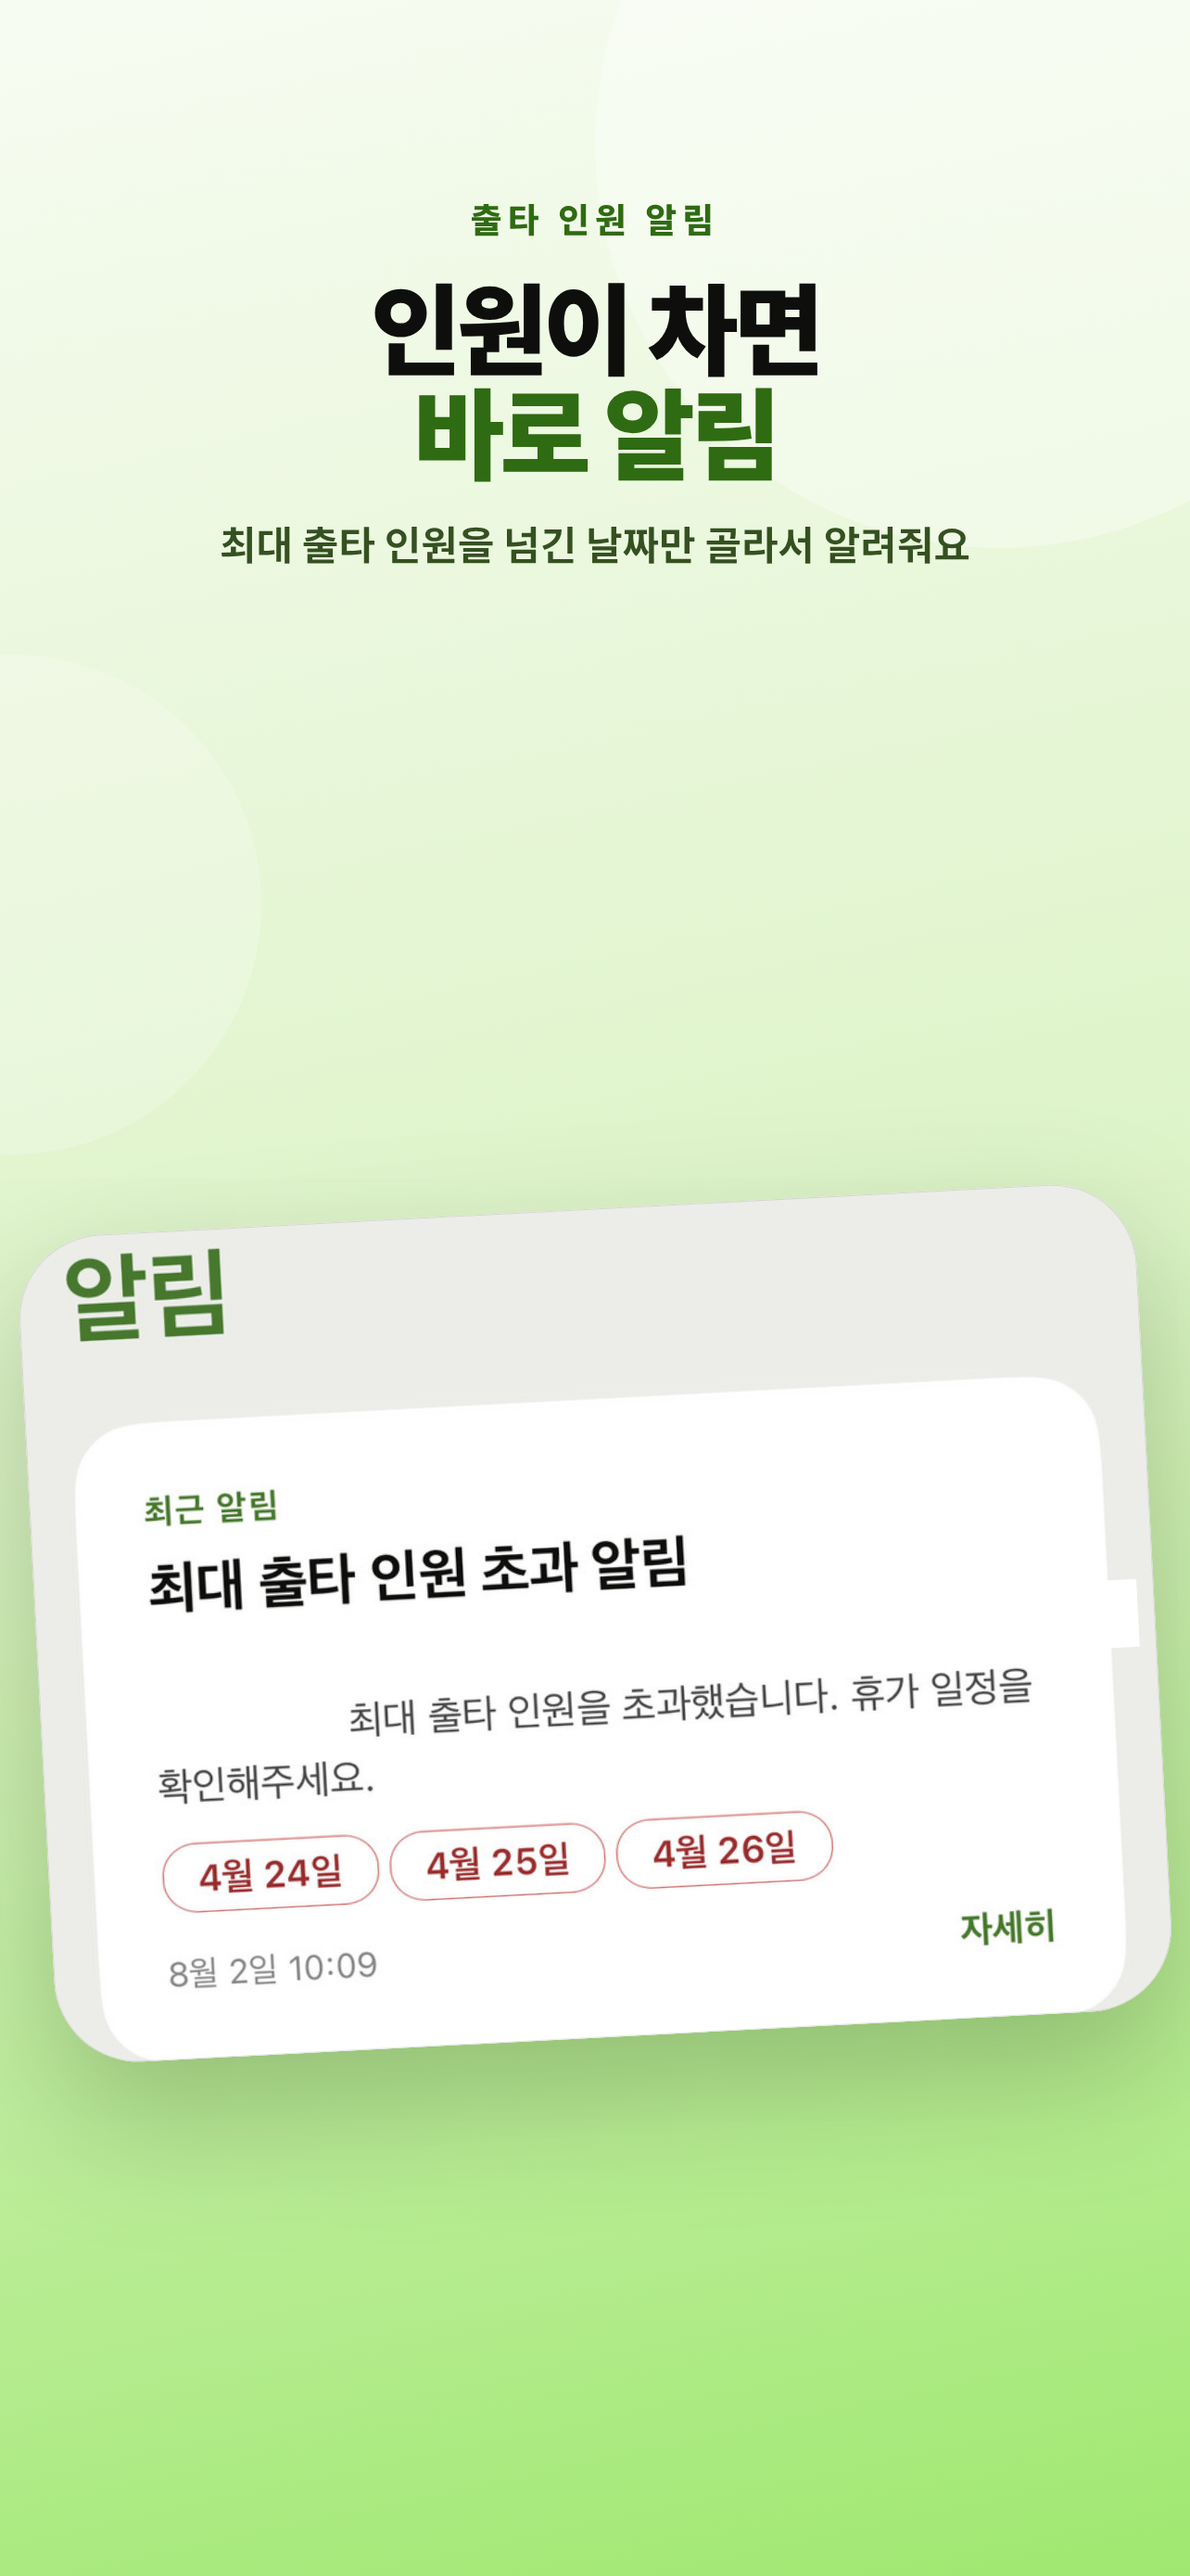
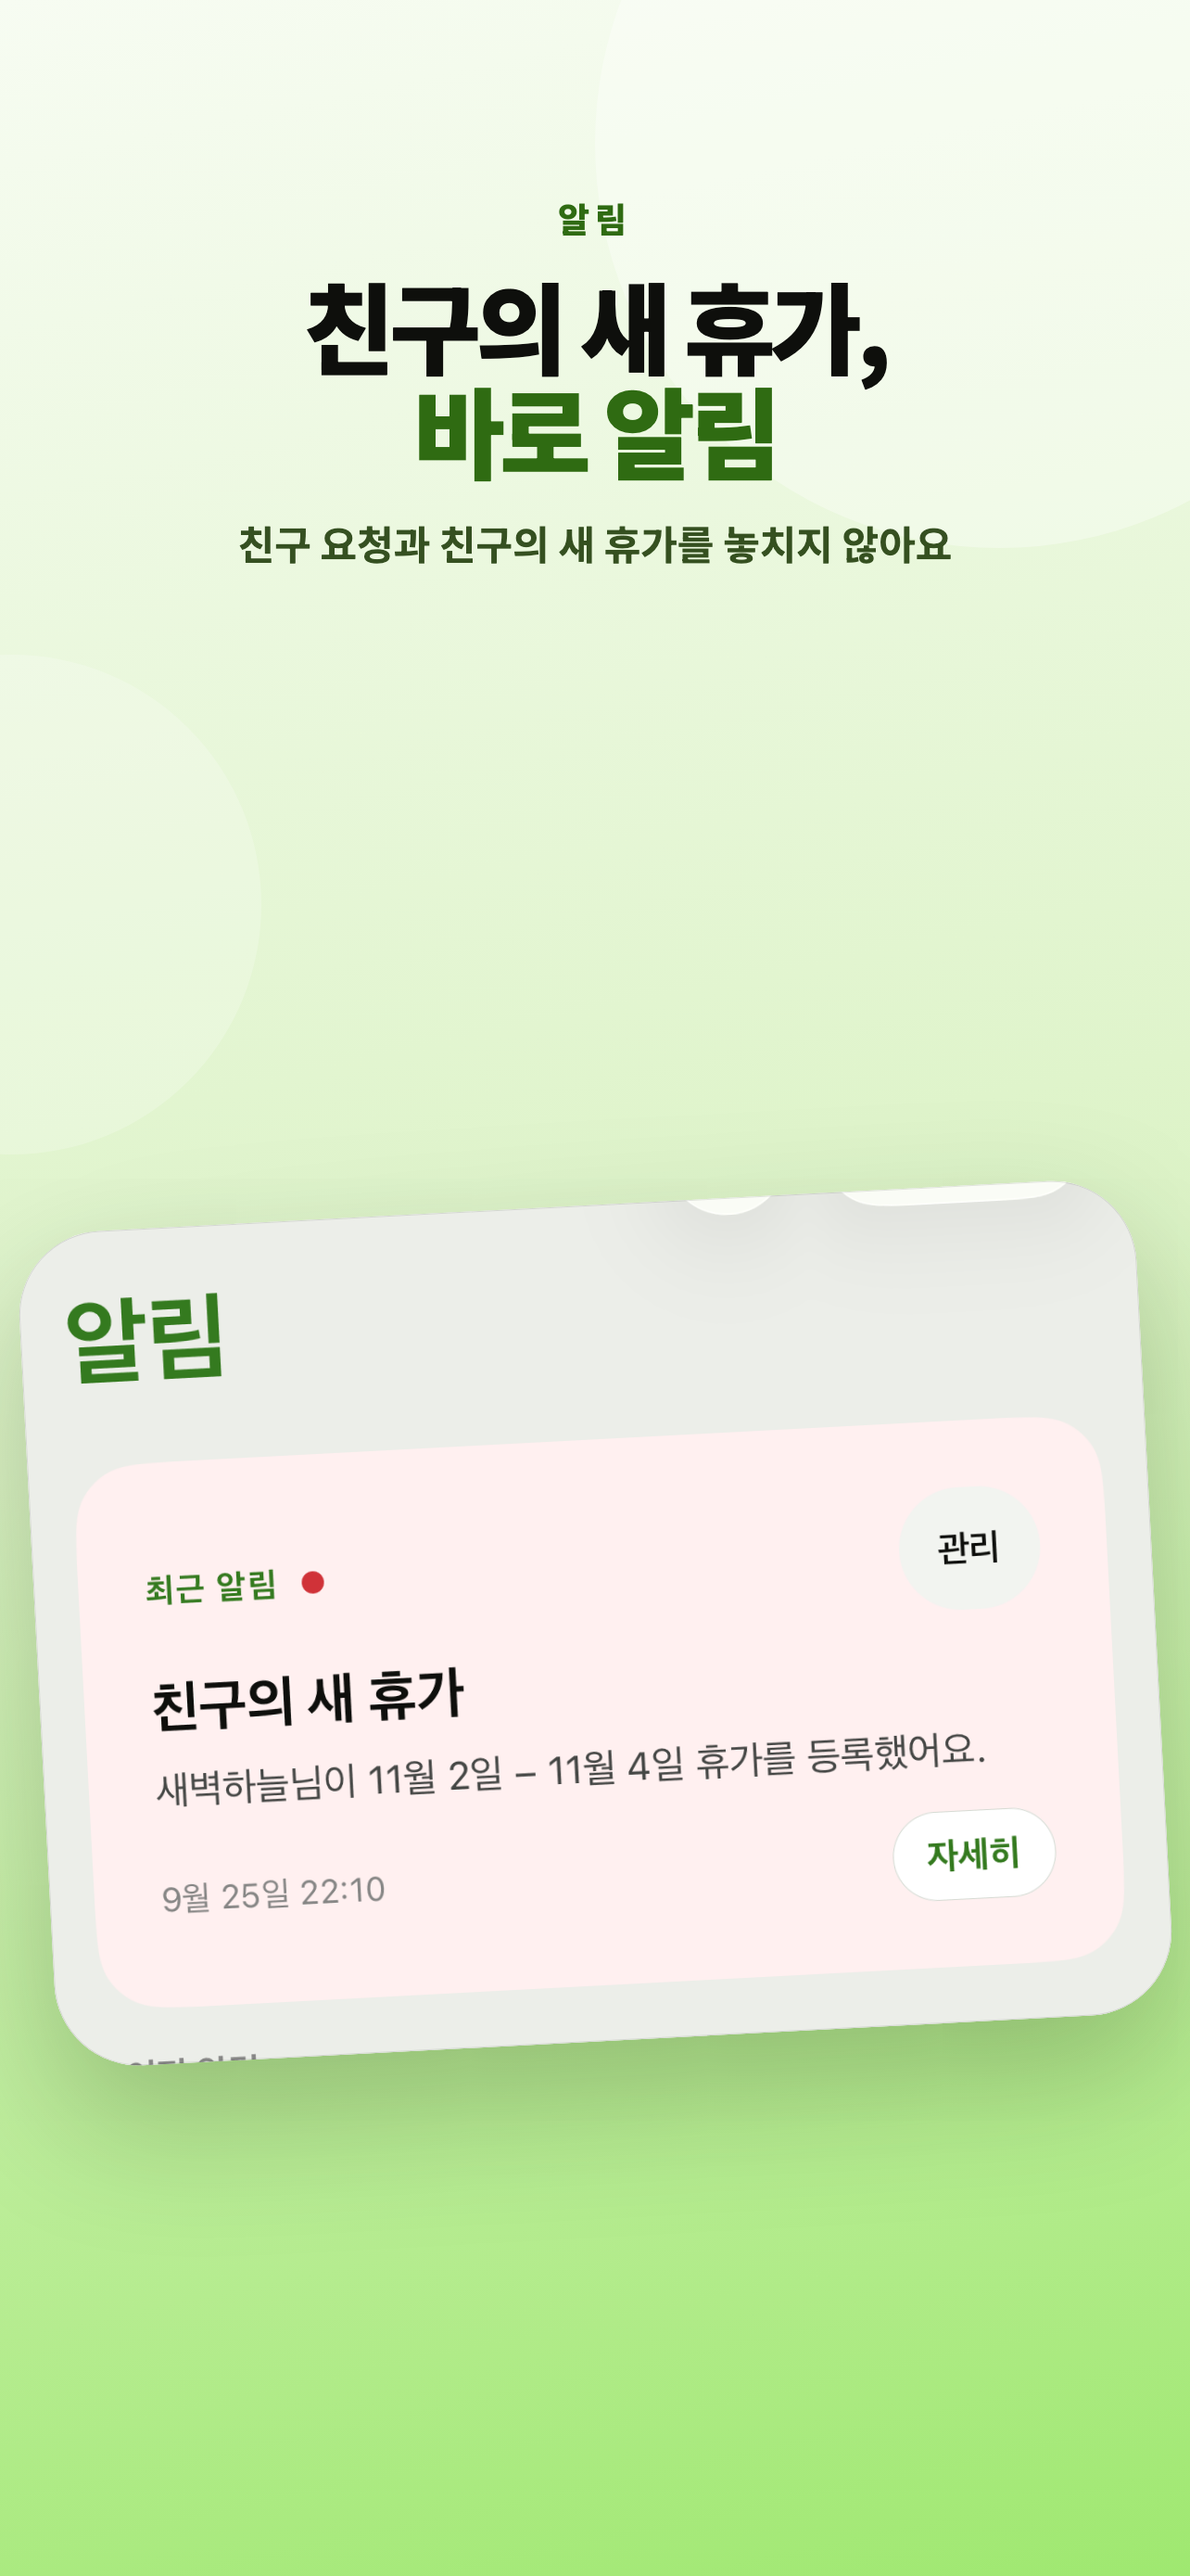
store: refresh App Store assets for 1.2.0
- 새 캡처: 실제 아이폰·아이패드·애플워치 시뮬레이터에서 데모 데이터로 촬영한
  네이티브 앱 스크린샷으로 소스 에셋 교체(기존 웹 캡처 jpg → png)
- shots.mjs: 1206x2622 네이티브 캡처 기준으로 재설정, 친구 달력·휴가 등록
  폼·알림 슬라이드를 포함한 새 7장 구성
- ipad.mjs: 웹 캡처 대신 네이티브 아이패드 캡처와 다크 베젤 프레임으로 재작성
- seed-web.mjs: 로컬 시드가 이메일 인증을 우회하도록 miniflare D1에
  email_verified_at을 직접 기록
- 메타데이터 문서: 1.2.0 기준 프로모션 텍스트·설명·새로운 기능 갱신
- .prettierignore: expo prebuild 산출물(apps/native/ios,android) 제외

diff --git a/store/metadata/appstore.ko.md b/store/metadata/appstore.ko.md
@@ -1,18 +1,18 @@
 # App Store Connect — 한국어
 
-> 앱: 리브(Leave) · 번들 ID: app.leave.mobile · 버전 1.0.0
+> 앱: 리브(Leave) · 번들 ID: app.leave.mobile · 버전 1.2.0
 
 ## 앱 이름 (30자 이내)
 
-    리브 - 병사 휴가 캘린더
+    리브 - 부대 휴가 캘린더
 
 ## 부제 (30자 이내)
 
-    휴가 공유와 잔여·정기외박 관리
+    부대 휴가 공유와 잔여·정기외박 관리
 
 ## 프로모션 텍스트 (170자 이내)
 
-    같은 그룹의 휴가 계획을 한 달력에서 보고, 겹치는 날을 미리 확인하세요. 연가·포상·위로·청원휴가의 잔여와 만기, 공군·해군 정기외박 주기까지 리브 하나로 관리할 수 있어요.
+    전역 D-데이와 남은 휴가, 이제 애플워치에서도 바로 확인해요. 워치 페이스 컴플리케이션으로 손목 위에 띄워 두세요. 친구의 휴가도 내 달력에서 같이 보입니다.
 
 ## 설명
 
@@ -39,6 +39,15 @@
     · 전역일까지의 정기외박 적립과 주기별 사용량 자동 계산
     · 이번 주기 잔여, 다음 적립일, 이월되지 않는 일수 확인
 
+    친구와 함께
+    · 친구를 고르면 내 달력에 친구의 휴가가 겹쳐 보여요
+    · 친구의 새 휴가와 친구 요청을 알림으로 받아요
+
+    애플워치
+    · 전역까지 남은 날, 복무율, 남은 일과일, 다음 휴가를 손목에서 확인
+    · 워치 페이스 컴플리케이션으로 전역·다음 휴가·다음 외출 D-Day를 페이스에 고정
+    · 아이폰 없이도 셀룰러로 정보 확인
+
     개인정보와 안전
     · 다른 그룹 구성원에게는 표시명, 계급, 일정 기간, 상태, 날짜별 재원이 보일 수 있습니다.
     · 일정 제목과 사유, 초안은 본인에게만 보입니다.
@@ -57,11 +66,10 @@
 
 ## 새로운 기능
 
-    리브 1.0
-    · 그룹 휴가 공유 캘린더와 날짜별 혼잡 신호
-    · 재원별 휴가 잔여·적립분·만기 관리
-    · 공군·해군 정기외박 자동 적립과 주기별 사용량
-    · 선택적 알림과 인앱 계정 삭제
+    Apple Watch 앱 추가
+    · 전역까지 남은 날, 복무율, 남은 일과일, 다음 휴가까지 손목에서 바로 확인
+    · 워치 페이스 컴플리케이션: 전역·다음 휴가·다음 외출 D-Day
+    · 아이폰 없이도 셀룰러로 정보 확인
 
     비공식 참고용 서비스이며 실제 휴가는 지휘관 승인과 소속 부대 지침을 따릅니다.
 

diff --git a/store/metadata/appstore.en.md b/store/metadata/appstore.en.md
@@ -1,6 +1,6 @@
 # App Store Connect — English (U.S.)
 
-> App: Leave · Bundle ID: `app.leave.mobile` · Version 1.0.0
+> App: Leave · Bundle ID: `app.leave.mobile` · Version 1.2.0
 
 ## App Name
 
@@ -17,7 +17,7 @@ Group schedule reference tool
 ## Promotional Text
 
 ```text
-View shared leave plans and check date-by-date capacity signals calculated from user-entered schedules and a group setting. An unofficial reference tool, not an approval system.
+Days to discharge and your remaining leave, now on Apple Watch too — pin the D-day to your watch face. See friends' leave right on your calendar.
 ```
 
 ## Description
@@ -31,6 +31,8 @@ FEATURES
 • In-app and optional push notifications
 • Quick schedule entry with title, dates, and an optional note
 • Personal leave-balance planning
+• Friends: pick friends to overlay their leave on your calendar, and get notified about requests and new plans
+• Apple Watch: days to discharge, service progress, duty days left, and next leave on your wrist, plus watch-face complications
 • In-app account and data deletion
 
 PRIVACY AND SECURITY
@@ -52,11 +54,10 @@ leave,calendar,schedule,planner,shared calendar,group schedule,time off,capacity
 ## What's New
 
 ```text
-Leave 1.0
-• Shared leave calendar
-• Capacity signals and over-limit notices
-• Optional push notifications
-• In-app account deletion
+Apple Watch app
+• Days to discharge, service progress, duty days left, and next leave on your wrist
+• Watch face complications: discharge, next leave, and next outing D-days
+• Works over cellular even without your iPhone nearby
 
 This is an unofficial reference tool. Actual leave remains subject to commander approval and unit rules.
 ```
